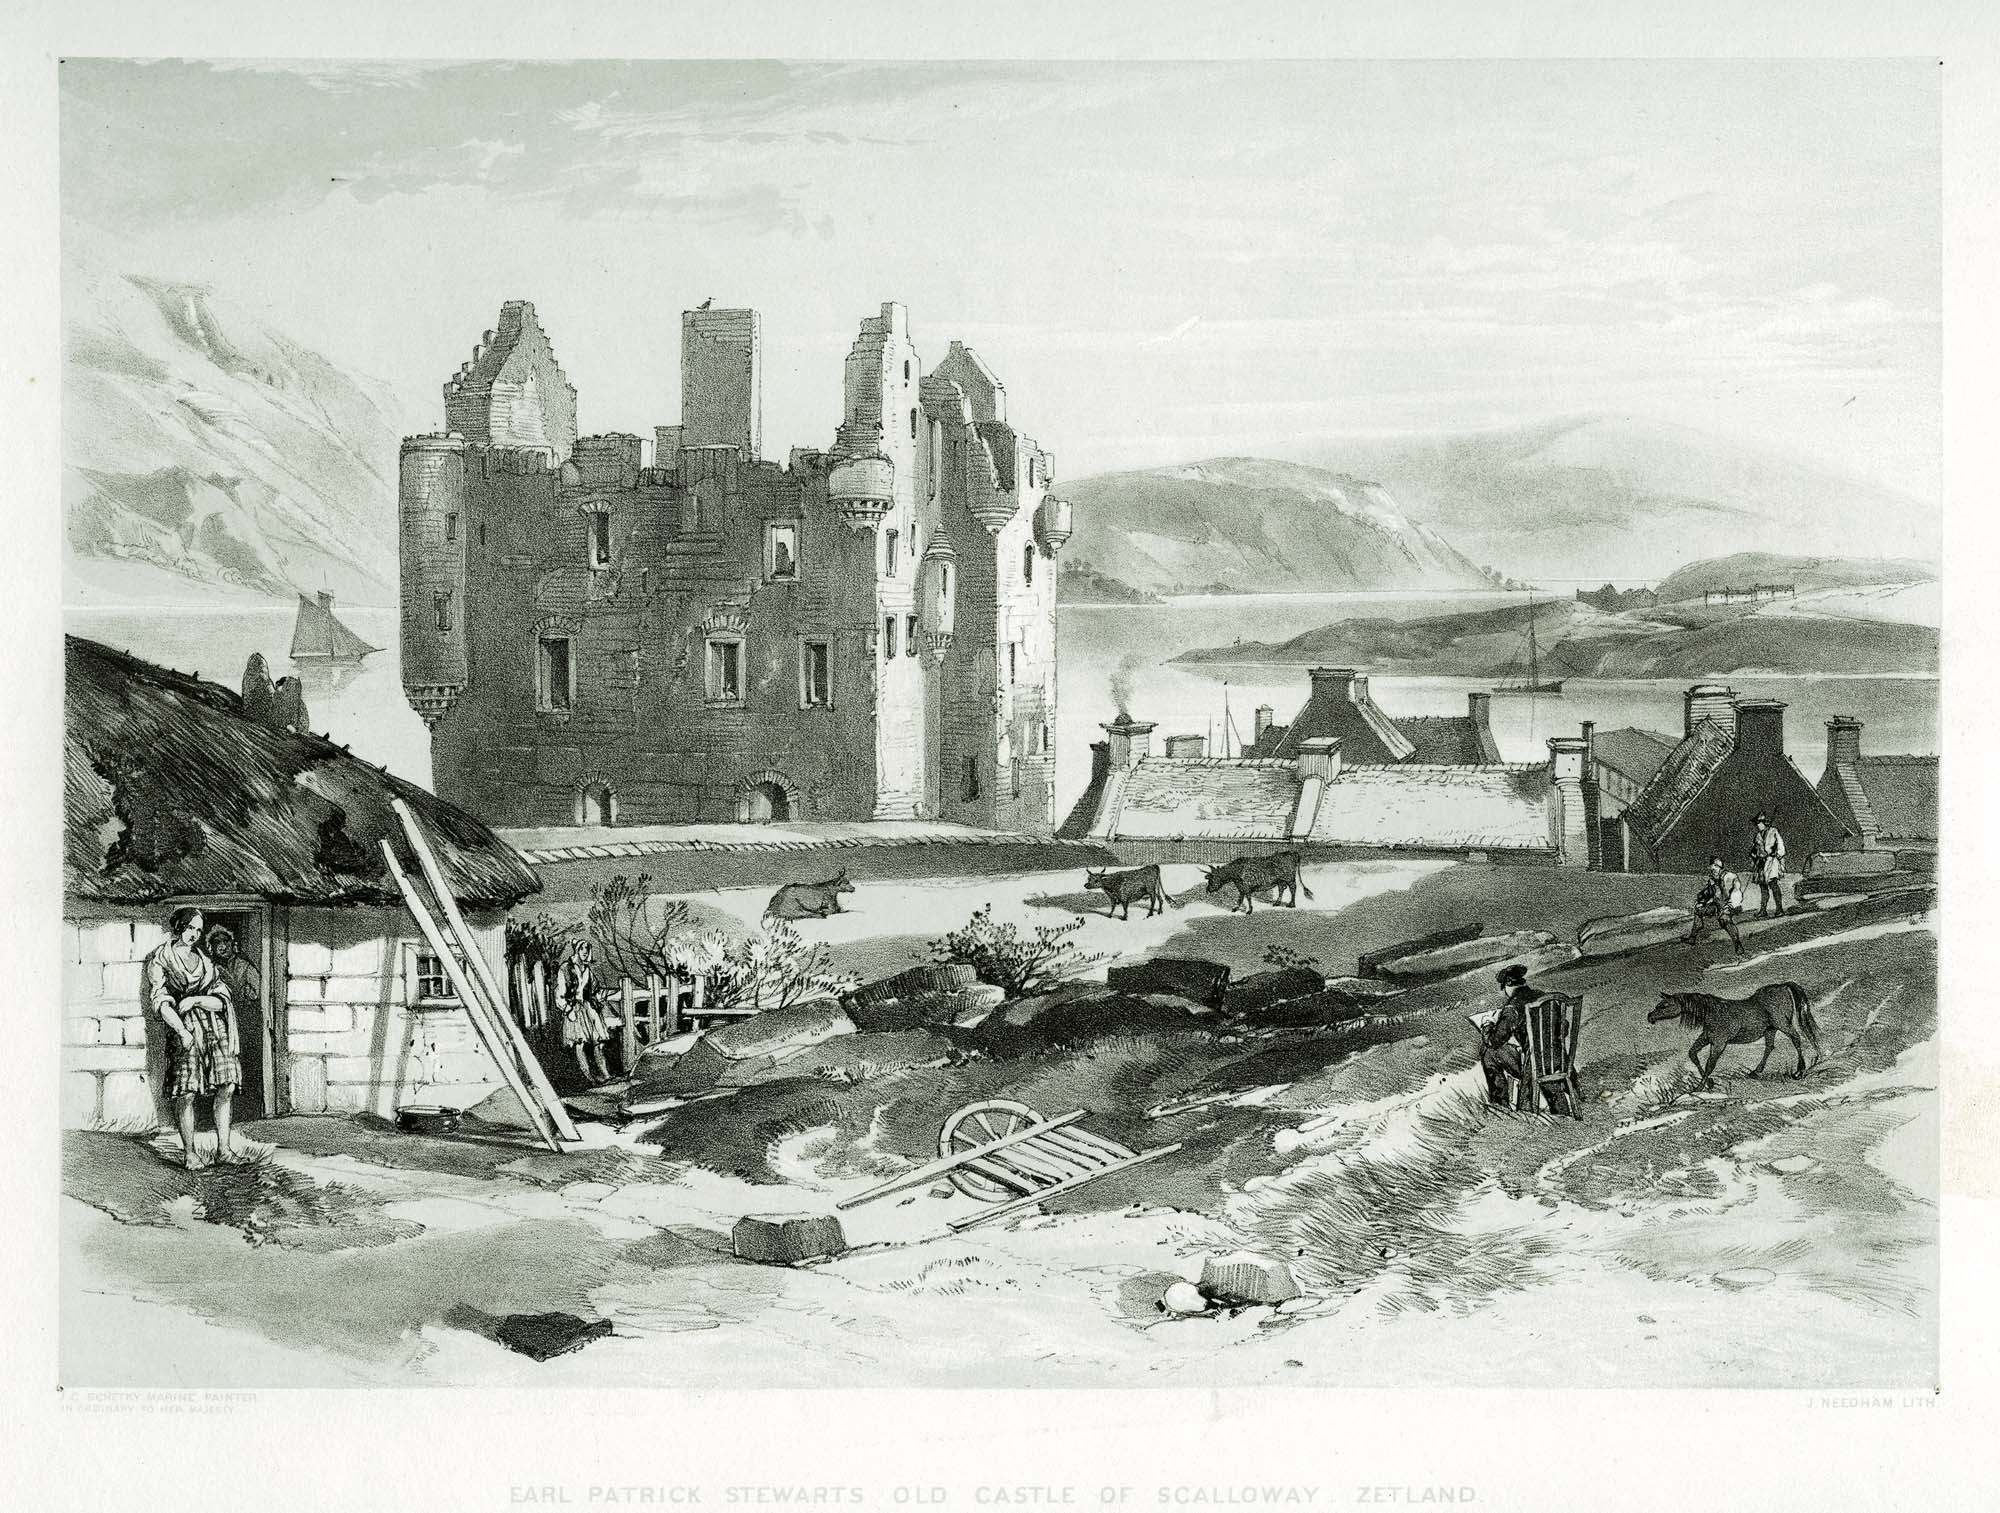
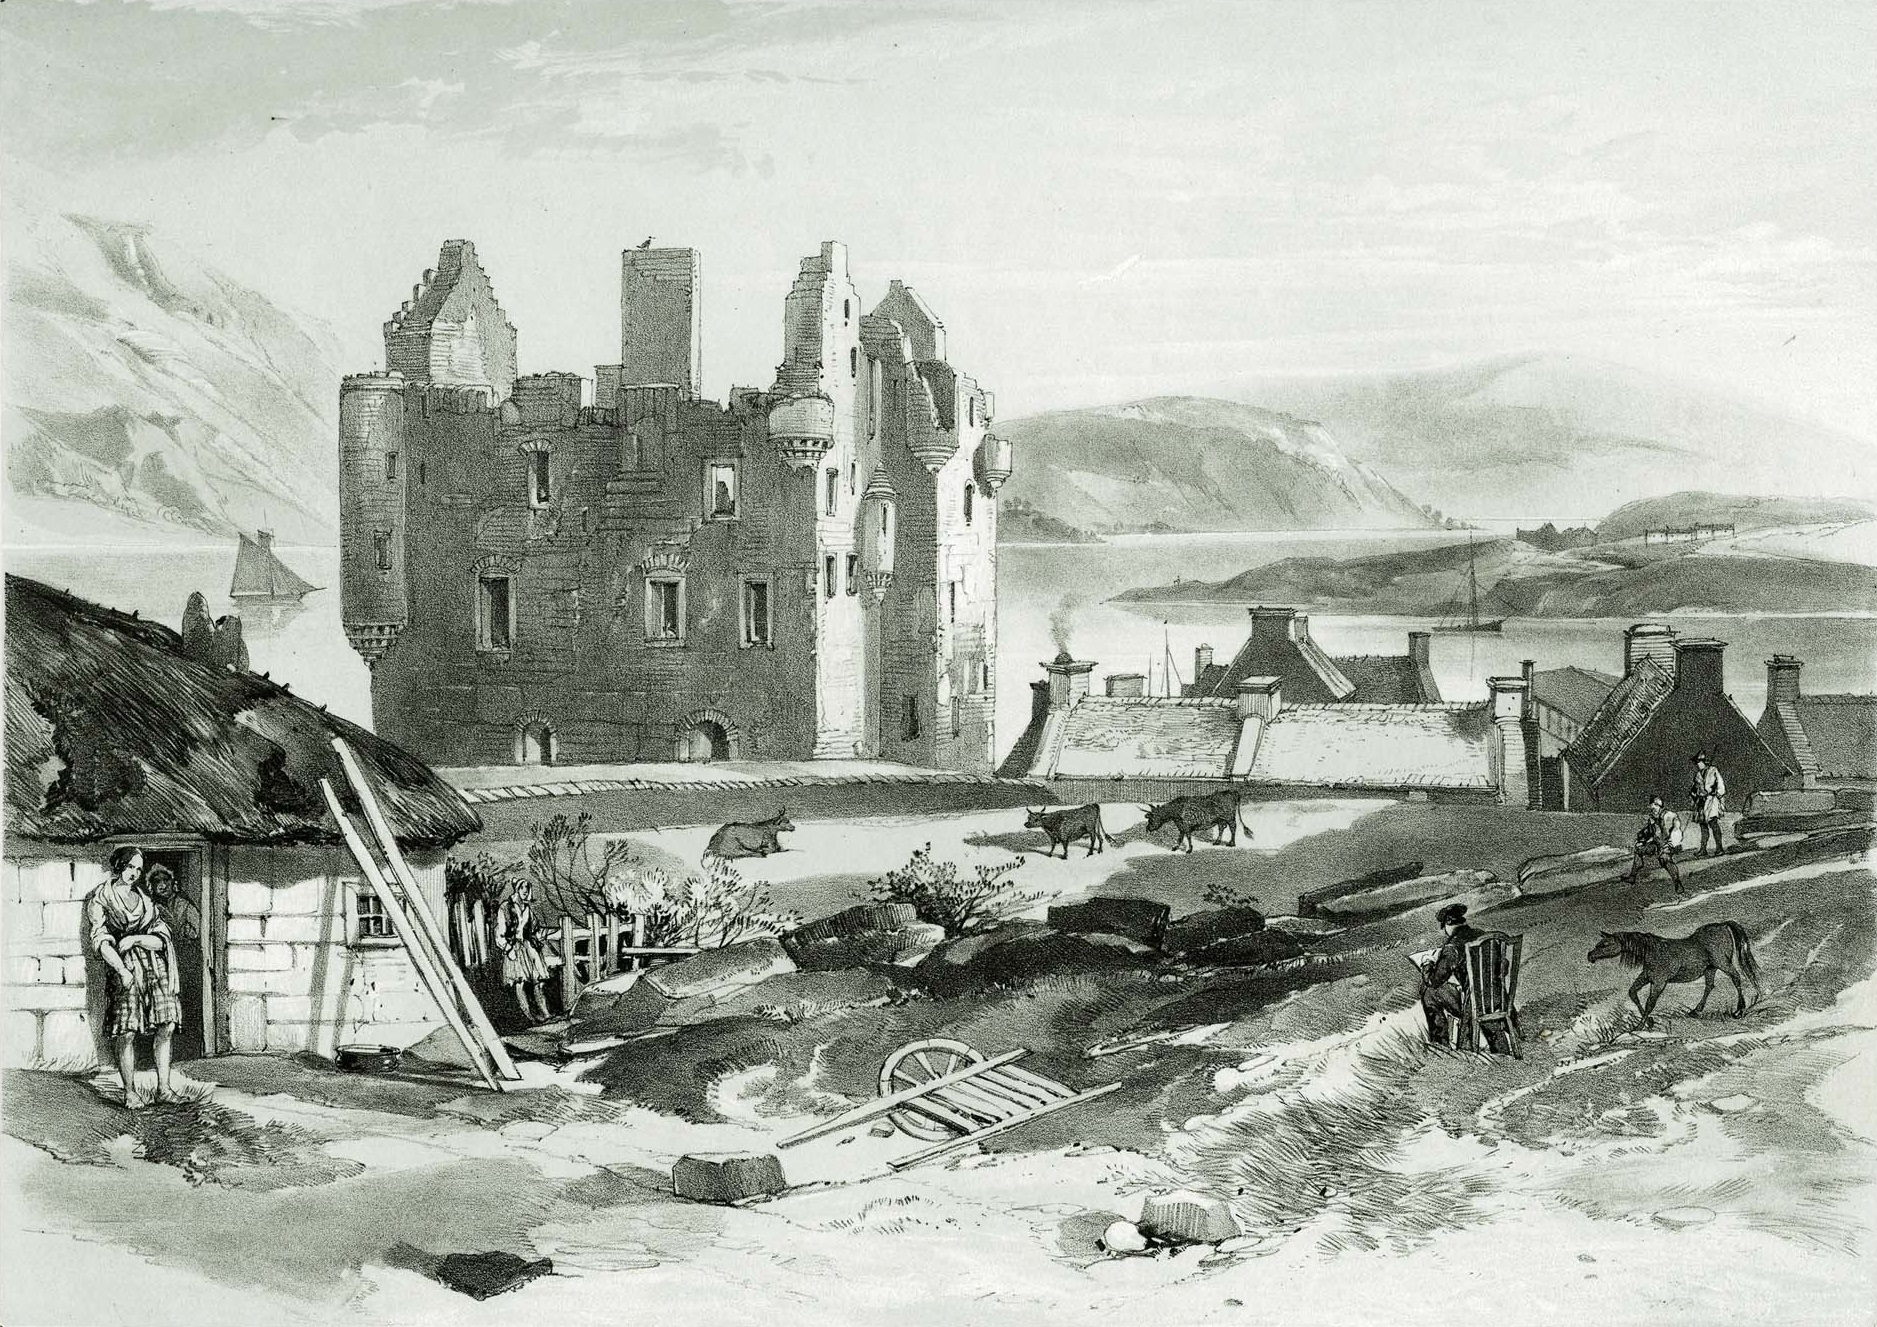
fixed issue with last image on main page not sizing right when on iphone
changed 2nd image on main page to another one

diff --git a/index.html b/index.html
@@ -60,14 +60,14 @@
         <div class="row">
             <div class="col-sm-12">
                 <img src="/IMGS/colour_houses.jpg" class="img-fluid" alt="...">
-                <img src="/IMGS/shetland_bus.jpg" class="img-fluid" alt="...">
+                <img src="/IMGS/scalloway_castle_drawing_better.jpg" class="img-fluid" alt="...">
             </div>
         </div>
 
         <div class="row">
             <div class="col-sm-12">
                 <img src="/IMGS/snowy_scalloway.jpg" class="img-fluid" alt="...">
-                <img src="/IMGS/temp.jpg" class="img-fuild" alt="...">
+                <img src="/IMGS/temp.jpg" class="img-fluid" alt="...">
             </div>
         </div>
 

diff --git a/readme.md b/readme.md
@@ -1,0 +1,1 @@
+3/4/12 - issue with last image on the main page, fixed with replacing the inital image with another reloading page and then putting orginal image back. (dont know how this worked)
